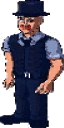
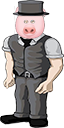
Merged enemies with current stable version. (NEED TO OPTIMISE ENEMY BULLETS) - Updated the seed to make shoot less.

diff --git a/core/src/com/sheffield/gamjam/GameJam.java b/core/src/com/sheffield/gamjam/GameJam.java
@@ -23,31 +23,36 @@ public class GameJam extends Game {
 	ArrayList<Explosion> explosions;
 	public Cloud[] clouds;
 	public Ground ground;
-    public ArrayList<Bullet> bullets;
-	ArrayList<Explosion> explosions;
-	public Cloud[] clouds;
-	public Ground ground;
 	public Tree[] trees;
     public Texture bg;
 
 	@Override
 	public void create () {
 		batch = new SpriteBatch();
-		// Creating ground object
-		ground = new Ground(Gdx.files.local("ground.png"));
+
+        // Creating ground object
+        ground = new Ground(Gdx.files.local("ground.png"));
+        bg = new Texture(Gdx.files.local("bg.png"));
+
         player = new Player(this);
         enemies = new ArrayList<Enemy>();
 
         enemyBullets = new ArrayList<EnemyBullet>();
         bullets = new ArrayList<Bullet>();
 		explosions = new ArrayList<Explosion>();
-		ground = new Ground(Gdx.files.local("ground.png"));
 
 		// Creating clouds with texture region
 		TextureRegion t = new TextureRegion(new Texture(Gdx.files.local("sprite_sheet1.png")), 930, 1805, 203, 133);
 		clouds = new Cloud[]{new Cloud(t, 3, 50),
 							  new Cloud(t, 3, 500),
 							  new Cloud(t, 3, 1000)};
+
+        // Creating the trees array
+        trees = new Tree[]{new Tree(t,ground, 6, 50, 1),
+                new Tree(t,ground, 6, 1000, 0),
+                new Tree(t,ground, 6, 2000, 1)};
+
+        // Creating enemies init
 		for(int i = 0; i<1; i++)
 			enemies.add(new Enemy(this));
 		explosions = new ArrayList<Explosion>();
@@ -55,30 +60,8 @@ public class GameJam extends Game {
 		shapeRenderer = new ShapeRenderer();
 
 
-		// Creating ground object
-		ground = new Ground(Gdx.files.local("ground.png"));
-        player = new Player(this);
-        bullets = new ArrayList<Bullet>();
-		explosions = new ArrayList<Explosion>();
 
-		ground = new Ground(Gdx.files.local("ground.png"));
 
-        bg = new Texture(Gdx.files.local("bg.png"));
-
-		// Creating clouds with texture region
-		TextureRegion t = new TextureRegion(new Texture(Gdx.files.local("sprite_sheet1.png")));
-		clouds = new Cloud[]{new Cloud(t, 4, 0),
-							  new Cloud(t, 4, 500),
-							  new Cloud(t, 4, 1000)};
-
-		// Creating the trees array
-		trees = new Tree[]{new Tree(t,ground, 6, 50, 1),
-						   new Tree(t,ground, 6, 1000, 0),
-                           new Tree(t,ground, 6, 2000, 1)};
-
-		explosions = new ArrayList<Explosion>();
-
-		shapeRenderer = new ShapeRenderer();
 	}
 
 	@Override
@@ -99,10 +82,13 @@ public class GameJam extends Game {
 
         batch.begin();
 
-		ground.draw(batch);
+        batch.draw(bg, 0,0);
+        ground.draw(batch);
 
-		// Updating clouds fam
-		for(Cloud cloud:clouds) cloud.update(batch);
+        // Updating clouds fam
+        for(Cloud cloud:clouds) cloud.update(batch);
+        for(Tree tree:trees) tree.update(batch);
+
 
 		// Render player's bullets
         for(Bullet b : bullets)
@@ -119,6 +105,8 @@ public class GameJam extends Game {
         // Render enemies
         for(Enemy e : enemies)
         	e.render(batch);
+
+
         // Render player
 		player.render(batch);
 
@@ -131,16 +119,6 @@ public class GameJam extends Game {
                 explosions.add(new Explosion(pos.x, pos.y));
             }
         }
-
-        batch.begin();
-
-        batch.draw(bg, 0,0);
-
-		ground.draw(batch);
-
-		// Updating clouds fam
-		for(Cloud cloud:clouds) cloud.update(batch);
-        for(Tree tree:trees) tree.update(batch);
 
         for(Bullet b : bullets)
         	b.draw(batch);

diff --git a/core/src/com/sheffield/gamjam/Enemy.java b/core/src/com/sheffield/gamjam/Enemy.java
@@ -23,7 +23,7 @@ public class Enemy {
         image = new Texture("gent64trans.png");
         bullet = new Texture("bacon-trans.png");
 	    game = g;
-	    pos = new Vector2(Gdx.graphics.getWidth() + bullet.getWidth()/2, 53);
+	    pos = new Vector2(Gdx.graphics.getWidth() + bullet.getWidth()/2, game.ground.g.getHeight()-5);
 	    direction = new Vector2(-2,0);
 	    LEFT_BOUND = 0;
 	}
@@ -36,7 +36,7 @@ public class Enemy {
 	public void update() {
 		pos.add(direction);
 		if(pos.x<=SCREEN_WIDTH-image.getWidth()) {
-			if(Gdx.input.justTouched() && Math.random()>0.35) {
+			if(Gdx.input.justTouched() && Math.random()>0.5) {
 				Vector2 origin = game.player.pos.cpy();
 				Vector2 v = origin.sub(pos.cpy()).nor();
 				double degrees = Math.toDegrees(Math.atan2(v.y, v.x));
@@ -49,7 +49,7 @@ public class Enemy {
 		}
 		if (pos.x < -bullet.getWidth()) {
 			pos.x = (float)(Gdx.graphics.getWidth() + bullet.getWidth()/1.5);
-			pos.y = 53;
+			pos.y = game.ground.g.getHeight()-5;
 		}
 	}
 	

diff --git a/core/src/com/sheffield/gamjam/Cloud.java b/core/src/com/sheffield/gamjam/Cloud.java
@@ -46,4 +46,3 @@ public class Cloud {
 		
 	}
 }
-}
